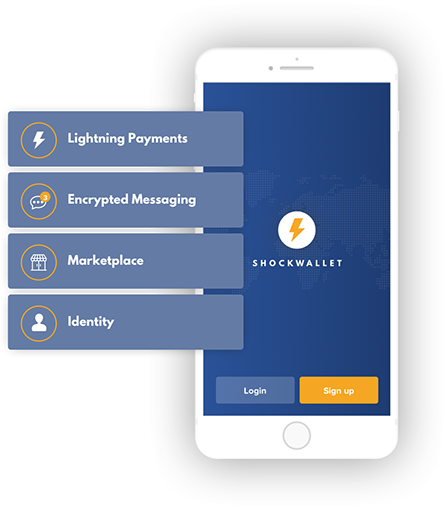
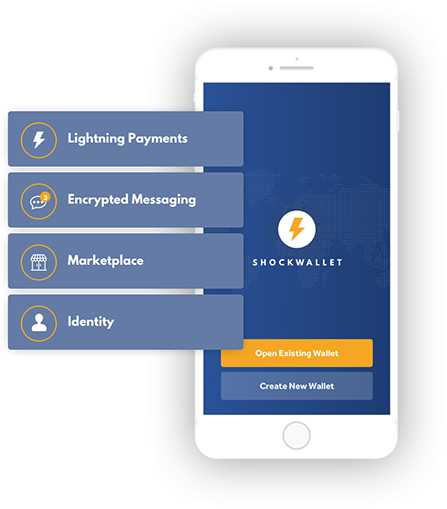
fixes

Changed region(s): [[0.4653, 0.6483, 0.8725, 0.8251], [0.5526, 0.4126, 0.7562, 0.5305]]

diff --git a/css/index.css b/css/index.css
@@ -1,1 +1,1 @@
-.version.index{color:#0000E8;background-color:#CE5160;}#muse_css_mq{background-color:#FFFFFF;}#page{z-index:1;min-height:2191px;background-image:none;border-width:0px;border-color:#000000;background-color:transparent;width:100%;max-width:1080px;margin-left:auto;margin-right:auto;}#page_position_content{margin-top:-4px;padding-bottom:62px;width:100%;}#pu95{z-index:2;width:100.38%;margin-left:-0.19%;}#u95{z-index:2;opacity:1;-ms-filter:"progid:DXImageTransform.Microsoft.Alpha(Opacity=100)";filter:alpha(opacity=100);position:relative;margin-right:-10000px;width:100%;margin-left:0%;left:2.000000000000033px;background:transparent url("../images/mapworld_white.png?crc=229867807") no-repeat center center;background-size:contain;}#u95 .fluid_height_spacer{padding-bottom:57.19557195571956%;}#u117{z-index:3;opacity:1;-ms-filter:"progid:DXImageTransform.Microsoft.Alpha(Opacity=100)";filter:alpha(opacity=100);position:relative;margin-right:-10000px;margin-top:24px;width:54.06%;margin-left:22.98%;left:227.00000000000003px;background:transparent url("../images/shockwallet_hero_product1.png?crc=3913090724") no-repeat center center;background-size:contain;}#u117 .fluid_height_spacer{padding-bottom:86.86006825938567%;}#u128{z-index:4;opacity:1;-ms-filter:"progid:DXImageTransform.Microsoft.Alpha(Opacity=100)";filter:alpha(opacity=100);position:relative;margin-right:-10000px;margin-top:24px;width:16.52%;margin-left:41.75%;left:-289.99999999999994px;background:transparent url("../images/shockwalletlogo.png?crc=4126371202") no-repeat center center;background-size:contain;}#u128 .fluid_height_spacer{padding-bottom:93.85474860335195%;}#u139-4{z-index:5;display:block;vertical-align:top;position:relative;margin-right:-10000px;margin-top:220px;width:25.93%;margin-left:37.04%;left:-238.99999999999997px;}#buttonu143{z-index:9;width:166px;height:32px;border-color:#787878;background-color:#F5A623;border-radius:10px;padding-bottom:8px;position:relative;margin-right:-10000px;margin-top:324px;margin-left:50%;left:-378.99999999999994px;}#buttonu143:hover{background-color:#FFD37F;width:166px;height:32px;min-height:0px;left:-378.99999999999994px;margin:324px -10000px 0px 50%;}#buttonu143.ButtonSelected{background-color:#F5A623;width:166px;height:32px;min-height:0px;left:-378.99999999999994px;margin:324px -10000px 0px 50%;}#u144{z-index:11;height:23px;width:119px;vertical-align:top;position:relative;margin-right:-10000px;margin-top:9px;left:20px;background:transparent url("../images/u144.png?crc=416300929") no-repeat 0px 0px;}#buttonu143:hover #u144{background:transparent url("../images/u144-r.png?crc=416300929") no-repeat 0px 0px;}#pu162{z-index:13;width:83.62%;margin-left:8.2%;}#u162{z-index:13;opacity:1;-ms-filter:"progid:DXImageTransform.Microsoft.Alpha(Opacity=100)";filter:alpha(opacity=100);position:relative;margin-right:-10000px;width:71.1%;margin-left:14.46%;left:-141.5px;background:transparent url("../images/shockwallet_hero_product2.png?crc=218332937") no-repeat center center;background-size:contain;}#pu173-4{z-index:14;margin-right:-10000px;margin-top:136px;width:28.91%;margin-left:35.55%;}#u173-4{z-index:14;display:block;vertical-align:top;position:relative;width:100%;margin-left:0%;left:309.5px;}#u176-4{z-index:18;display:block;vertical-align:top;margin-top:9px;position:relative;width:100%;margin-left:0%;left:309.5px;}#ppu190-4{z-index:0;width:83.62%;margin-left:8.2%;}#pu190-4{z-index:23;margin-right:-10000px;margin-top:123px;width:28.91%;margin-left:35.55%;}#u190-4{z-index:23;display:block;vertical-align:top;position:relative;width:100%;margin-left:0%;left:-252.5px;}#u193-4{z-index:27;display:block;vertical-align:top;position:relative;width:100%;margin-left:0%;left:-252.5px;}#u179{z-index:22;opacity:1;-ms-filter:"progid:DXImageTransform.Microsoft.Alpha(Opacity=100)";filter:alpha(opacity=100);position:relative;margin-right:-10000px;width:71.1%;margin-left:14.46%;left:199.5px;background:transparent url("../images/shockwallet_hero_product3.png?crc=3967013137") no-repeat center center;background-size:contain;}#u162 .fluid_height_spacer,#u179 .fluid_height_spacer{padding-bottom:82.398753894081%;}#pu196-7{z-index:31;margin-top:90px;width:84.08%;margin-left:7.97%;}#u196-7{z-index:31;min-height:36px;background-color:transparent;font-size:14px;text-align:center;color:#FFFFFF;font-family:Geneva, Verdana, Lucida Sans, Lucida Sans Unicode, sans-serif;position:relative;margin-right:-10000px;width:100%;margin-left:0%;left:2.842170943040401e-14px;}#u228{z-index:39;position:relative;margin-right:-10000px;margin-top:30px;width:18.62%;margin-left:40.7%;left:201.00000000000003px;}.ie #u228{background-color:#FFFFFF;opacity:0.01;-ms-filter:"progid:DXImageTransform.Microsoft.Alpha(Opacity=1)";filter:alpha(opacity=1);margin-left:40.7%;left:201.00000000000003px;}#u228 .fluid_height_spacer{padding-bottom:15.384615384615385%;}#u200{z-index:38;opacity:1;-ms-filter:"progid:DXImageTransform.Microsoft.Alpha(Opacity=100)";filter:alpha(opacity=100);margin-top:43px;position:relative;width:24.91%;margin-left:37.55%;left:-1px;background:transparent url("../images/qr.jpg?crc=3893894338") no-repeat center center;background-size:contain;}#u200 .fluid_height_spacer{padding-bottom:108.55018587360594%;}.css_verticalspacer .verticalspacer{height:calc(100vh - 2217px);}.html{background-color:#2A5298;background:-webkit-gradient(linear, left center, right center, from(#2A5298),color-stop(100%, #1F3D74));background:-webkit-linear-gradient(left,#2A5298 ,#1F3D74 100%);background:linear-gradient(to right,#2A5298 ,#1F3D74 100%);filter:progid:DXImageTransform.Microsoft.gradient(startColorstr=#FF2A5298, endColorstr=#FF1F3D74, GradientType=1);-ms-filter:"progid:DXImageTransform.Microsoft.gradient(startColorstr='#FF2A5298', endColorstr='#FF1F3D74', GradientType=1)";}body{position:relative;min-width:768px;}
+.version.index{color:#000003;background-color:#D12727;}#muse_css_mq{background-color:#FFFFFF;}#page{z-index:1;min-height:2191px;background-image:none;border-width:0px;border-color:#000000;background-color:transparent;width:100%;max-width:1080px;margin-left:auto;margin-right:auto;}#page_position_content{margin-top:-4px;padding-bottom:62px;width:100%;}#pu95{z-index:2;width:100.38%;}#u95{z-index:2;opacity:1;-ms-filter:"progid:DXImageTransform.Microsoft.Alpha(Opacity=100)";filter:alpha(opacity=100);position:relative;margin-right:-10000px;width:100%;margin-left:-0.19%;left:2px;background:transparent url("../images/mapworld_white.png?crc=229867807") no-repeat center center;background-size:contain;}#u95 .fluid_height_spacer{padding-bottom:57.19557195571956%;}#u117{z-index:3;opacity:1;-ms-filter:"progid:DXImageTransform.Microsoft.Alpha(Opacity=100)";filter:alpha(opacity=100);position:relative;margin-right:-10000px;margin-top:24px;width:54.06%;margin-left:45.58%;left:-20px;background:transparent url("../images/shockwallet_hero_product1.png?crc=3925433276") no-repeat center center;background-size:contain;}#u117 .fluid_height_spacer{padding-bottom:86.86006825938567%;}#u128{z-index:4;opacity:1;-ms-filter:"progid:DXImageTransform.Microsoft.Alpha(Opacity=100)";filter:alpha(opacity=100);position:relative;margin-right:-10000px;margin-top:24px;width:16.52%;left:161px;margin-left:0px;background:transparent url("../images/shockwalletlogo.png?crc=4126371202") no-repeat center center;background-size:contain;}#u128 .fluid_height_spacer{padding-bottom:93.85474860335195%;}#u139-4{z-index:5;display:block;vertical-align:top;position:relative;margin-right:-10000px;margin-top:220px;width:25.93%;left:161px;margin-left:0px;}#buttonu143{z-index:9;width:166px;height:32px;border-color:#787878;background-color:#F5A623;border-radius:10px;padding-bottom:8px;position:relative;margin-right:-10000px;margin-top:324px;left:161px;margin-left:0px;}#buttonu143:hover{background-color:#FFD37F;width:166px;height:32px;min-height:0px;margin:324px -10000px 0px 0px;}#buttonu143.ButtonSelected{background-color:#F5A623;width:166px;height:32px;min-height:0px;left:0px;margin:324px -10000px 0px 0px;}#u144{z-index:11;height:23px;width:119px;vertical-align:top;position:relative;margin-right:-10000px;margin-top:9px;left:20px;background:transparent url("../images/u144.png?crc=416300929") no-repeat 0px 0px;}#buttonu143:hover #u144{background:transparent url("../images/u144-r.png?crc=416300929") no-repeat 0px 0px;}#pu162{z-index:13;margin-left:77px;width:83.62%;}#u162{z-index:13;opacity:1;-ms-filter:"progid:DXImageTransform.Microsoft.Alpha(Opacity=100)";filter:alpha(opacity=100);position:relative;margin-right:-10000px;width:71.1%;background:transparent url("../images/shockwallet_hero_product2.png?crc=218332937") no-repeat center center;background-size:contain;}#pu173-4{z-index:14;margin-right:-10000px;margin-top:136px;margin-left:642px;width:28.91%;}#u173-4{z-index:14;display:block;vertical-align:top;position:relative;width:100%;}#u176-4{z-index:18;display:block;vertical-align:top;margin-top:9px;position:relative;width:100%;}#ppu190-4{z-index:0;width:83.62%;margin-left:16.39%;}#pu190-4{z-index:23;margin-right:-10000px;margin-top:123px;width:28.91%;margin-left:71.1%;}#u190-4{z-index:23;display:block;vertical-align:top;position:relative;width:100%;margin-left:0%;left:-662px;}#u193-4{z-index:27;display:block;vertical-align:top;position:relative;width:100%;margin-left:0%;left:-662px;}#u179{z-index:22;opacity:1;-ms-filter:"progid:DXImageTransform.Microsoft.Alpha(Opacity=100)";filter:alpha(opacity=100);position:relative;margin-right:-10000px;width:71.1%;margin-left:28.91%;left:-19.99999999999997px;background:transparent url("../images/shockwallet_hero_product3.png?crc=3967013137") no-repeat center center;background-size:contain;}#u162 .fluid_height_spacer,#u179 .fluid_height_spacer{padding-bottom:82.398753894081%;}#pu196-7{z-index:31;margin-top:90px;width:84.08%;margin-left:7.97%;}#u196-7{z-index:31;min-height:36px;background-color:transparent;font-size:14px;text-align:center;color:#FFFFFF;font-family:Geneva, Verdana, Lucida Sans, Lucida Sans Unicode, sans-serif;position:relative;margin-right:-10000px;width:100%;margin-left:0%;left:2.842170943040401e-14px;}#u228{z-index:39;position:relative;margin-right:-10000px;margin-top:30px;width:18.62%;margin-left:40.7%;left:201.00000000000003px;}.ie #u228{background-color:#FFFFFF;opacity:0.01;-ms-filter:"progid:DXImageTransform.Microsoft.Alpha(Opacity=1)";filter:alpha(opacity=1);margin-left:40.7%;left:201.00000000000003px;}#u228 .fluid_height_spacer{padding-bottom:15.384615384615385%;}#u200{z-index:38;opacity:1;-ms-filter:"progid:DXImageTransform.Microsoft.Alpha(Opacity=100)";filter:alpha(opacity=100);margin-top:43px;position:relative;width:24.91%;margin-left:37.55%;left:-1px;background:transparent url("../images/qr.jpg?crc=3893894338") no-repeat center center;background-size:contain;}#u200 .fluid_height_spacer{padding-bottom:108.55018587360594%;}.css_verticalspacer .verticalspacer{height:calc(100vh - 2217px);}.html{background-color:#2A5298;background:-webkit-gradient(linear, left center, right center, from(#2A5298),color-stop(100%, #1F3D74));background:-webkit-linear-gradient(left,#2A5298 ,#1F3D74 100%);background:linear-gradient(to right,#2A5298 ,#1F3D74 100%);filter:progid:DXImageTransform.Microsoft.gradient(startColorstr=#FF2A5298, endColorstr=#FF1F3D74, GradientType=1);-ms-filter:"progid:DXImageTransform.Microsoft.gradient(startColorstr='#FF2A5298', endColorstr='#FF1F3D74', GradientType=1)";}body{position:relative;min-width:768px;}

diff --git a/index.html b/index.html
@@ -18,29 +18,29 @@ if(typeof Muse == "undefined") window.Muse = {}; window.Muse.assets = {"required
   <title>Shock Project</title>
   <!-- CSS -->
   <link rel="stylesheet" type="text/css" href="css/site_global.css?crc=444006867"/>
-  <link rel="stylesheet" type="text/css" href="css/index.css?crc=3905835360" id="pagesheet"/>
+  <link rel="stylesheet" type="text/css" href="css/index.css?crc=64038695" id="pagesheet"/>
    </head>
  <body>
 
   <div class="clearfix gradient borderbox" id="page"><!-- column -->
    <div class="position_content" id="page_position_content">
     <div class="clearfix colelem" id="pu95"><!-- group -->
-     <div class="museBGSize grpelem" id="u95" data-sizePolicy="fluidWidthHeight" data-pintopage="page_fixedCenter" data-leftAdjustmentDoneBy="pu95"><!-- content -->
+     <div class="museBGSize grpelem" id="u95" data-sizePolicy="fluidWidthHeight" data-pintopage="page_fixedCenter"><!-- content -->
       <div class="fluid_height_spacer"></div>
      </div>
-     <div class="museBGSize grpelem" id="u117" data-sizePolicy="fluidWidthHeight" data-pintopage="page_fixedCenter" data-leftAdjustmentDoneBy="pu95"><!-- content -->
+     <div class="museBGSize grpelem" id="u117" data-sizePolicy="fluidWidthHeight" data-pintopage="page_fixedRight"><!-- content -->
       <div class="fluid_height_spacer"></div>
      </div>
-     <div class="museBGSize grpelem" id="u128" data-sizePolicy="fluidWidthHeight" data-pintopage="page_fixedCenter" data-leftAdjustmentDoneBy="pu95"><!-- content -->
+     <div class="museBGSize grpelem" id="u128" data-sizePolicy="fluidWidthHeight" data-pintopage="page_fixedLeft"><!-- content -->
       <div class="fluid_height_spacer"></div>
      </div>
      <img class="grpelem" id="u139-4" alt="The social Bitcoin Wallet." src="images/u139-4.png?crc=100326680" data-image-width="281"/><!-- rasterized frame -->
-     <div class="Button rounded-corners clearfix grpelem" id="buttonu143" data-sizePolicy="fixed" data-pintopage="page_fixedCenter" data-leftAdjustmentDoneBy="pu95"><!-- container box -->
+     <div class="Button rounded-corners clearfix grpelem" id="buttonu143" data-sizePolicy="fixed" data-pintopage="page_fixedLeft"><!-- container box -->
       <img class="grpelem" id="u144" alt="Coming Soon" src="images/blank.gif?crc=4208392903"/><!-- state-based BG images -->
      </div>
     </div>
     <div class="clearfix colelem" id="pu162"><!-- group -->
-     <div class="museBGSize grpelem" id="u162" data-sizePolicy="fluidWidthHeight" data-pintopage="page_fixedCenter" data-leftAdjustmentDoneBy="pu162"><!-- content -->
+     <div class="museBGSize grpelem" id="u162" data-sizePolicy="fluidWidthHeight" data-pintopage="page_fixedLeft"><!-- content -->
       <div class="fluid_height_spacer"></div>
      </div>
      <div class="clearfix grpelem" id="pu173-4"><!-- column -->
@@ -53,7 +53,7 @@ if(typeof Muse == "undefined") window.Muse = {}; window.Muse.assets = {"required
       <img class="colelem" id="u190-4" alt="Marketplace" src="images/u190-4.png?crc=4124553244" data-image-width="261"/><!-- rasterized frame -->
       <img class="colelem" id="u193-4" alt="Buy and sell directly with other Lightning users and merchants." src="images/u193-4.png?crc=337421994" data-image-width="261"/><!-- rasterized frame -->
      </div>
-     <div class="museBGSize grpelem" id="u179" data-sizePolicy="fluidWidthHeight" data-pintopage="page_fixedCenter" data-leftAdjustmentDoneBy="ppu190-4"><!-- content -->
+     <div class="museBGSize grpelem" id="u179" data-sizePolicy="fluidWidthHeight" data-pintopage="page_fixedRight" data-leftAdjustmentDoneBy="ppu190-4"><!-- content -->
       <div class="fluid_height_spacer"></div>
      </div>
     </div>
